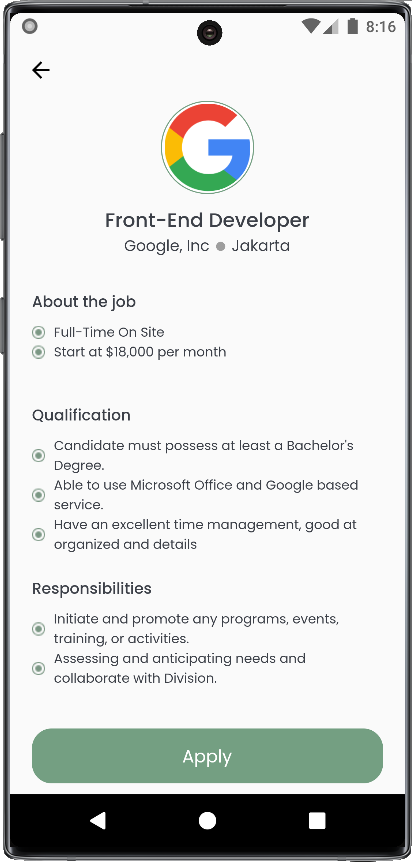
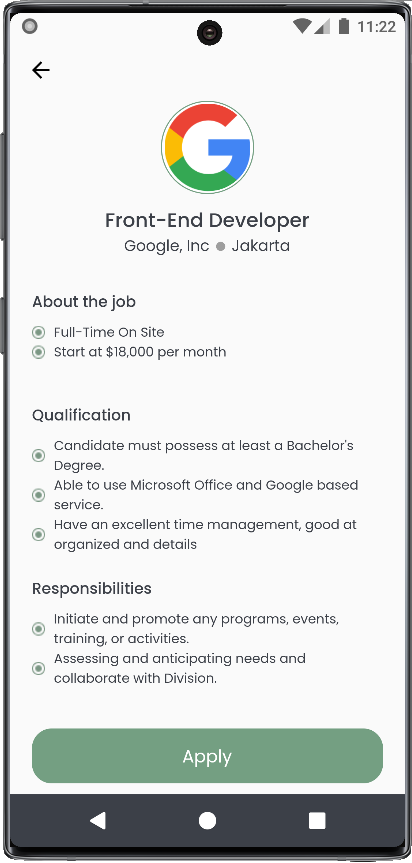
change system navigation color

Changed region(s): [[0.0, 0.9038, 0.9903, 0.9942], [0.699, 0.0, 0.9029, 0.0603], [0.932, 0.0, 0.9612, 0.0603]]

diff --git a/lib/view/pages/home_page.dart b/lib/view/pages/home_page.dart
@@ -45,7 +45,7 @@ class _HomePageState extends State<HomePage> {
     return AnnotatedRegion(
       value: SystemUiOverlayStyle(
         systemNavigationBarColor: blackColor,
-        systemNavigationBarIconBrightness: Brightness.dark,
+        systemNavigationBarIconBrightness: Brightness.light,
       ),
       child: Scaffold(
         backgroundColor: whiteColor,

diff --git a/README.md b/README.md
@@ -29,12 +29,12 @@ Project ini dibuat untuk pengumpulan mini project kegiatan kampus merdeka NF Com
 |                                     |                                     |
 | ----------------------------------- | ----------------------------------- |
 | Splash Page                         | Error State                         |
-| ![](assets/github/splashpage.png)   | ![](assets/github/errorpage.png)    |
+| ![](assets/github/splashpage.png)   | ![](assets/github/errorstate.png)   |
 | Login Page                          | Register Page                       |
 | ![](assets/github/loginpage.png)    | ![](assets/github/registerpage.png) |
 | Home Page                           | Detail Page                         |
 | ![](assets/github/homepage.png)     | ![](assets/github/detailpage.png)   |
 | Category Page                       | Profile Page                        |
 | ![](assets/github/categorypage.png) | ![](assets/github/profilepage.png)  |
-| Applied Job State                   | Authentication State                |
-| ![](assets/github/appliedpage.png)  | ![](assets/github/loadingpage.png)  |
+| Applied Job State                   |                                     |
+| ![](assets/github/appliedstate.png) |                                     |
